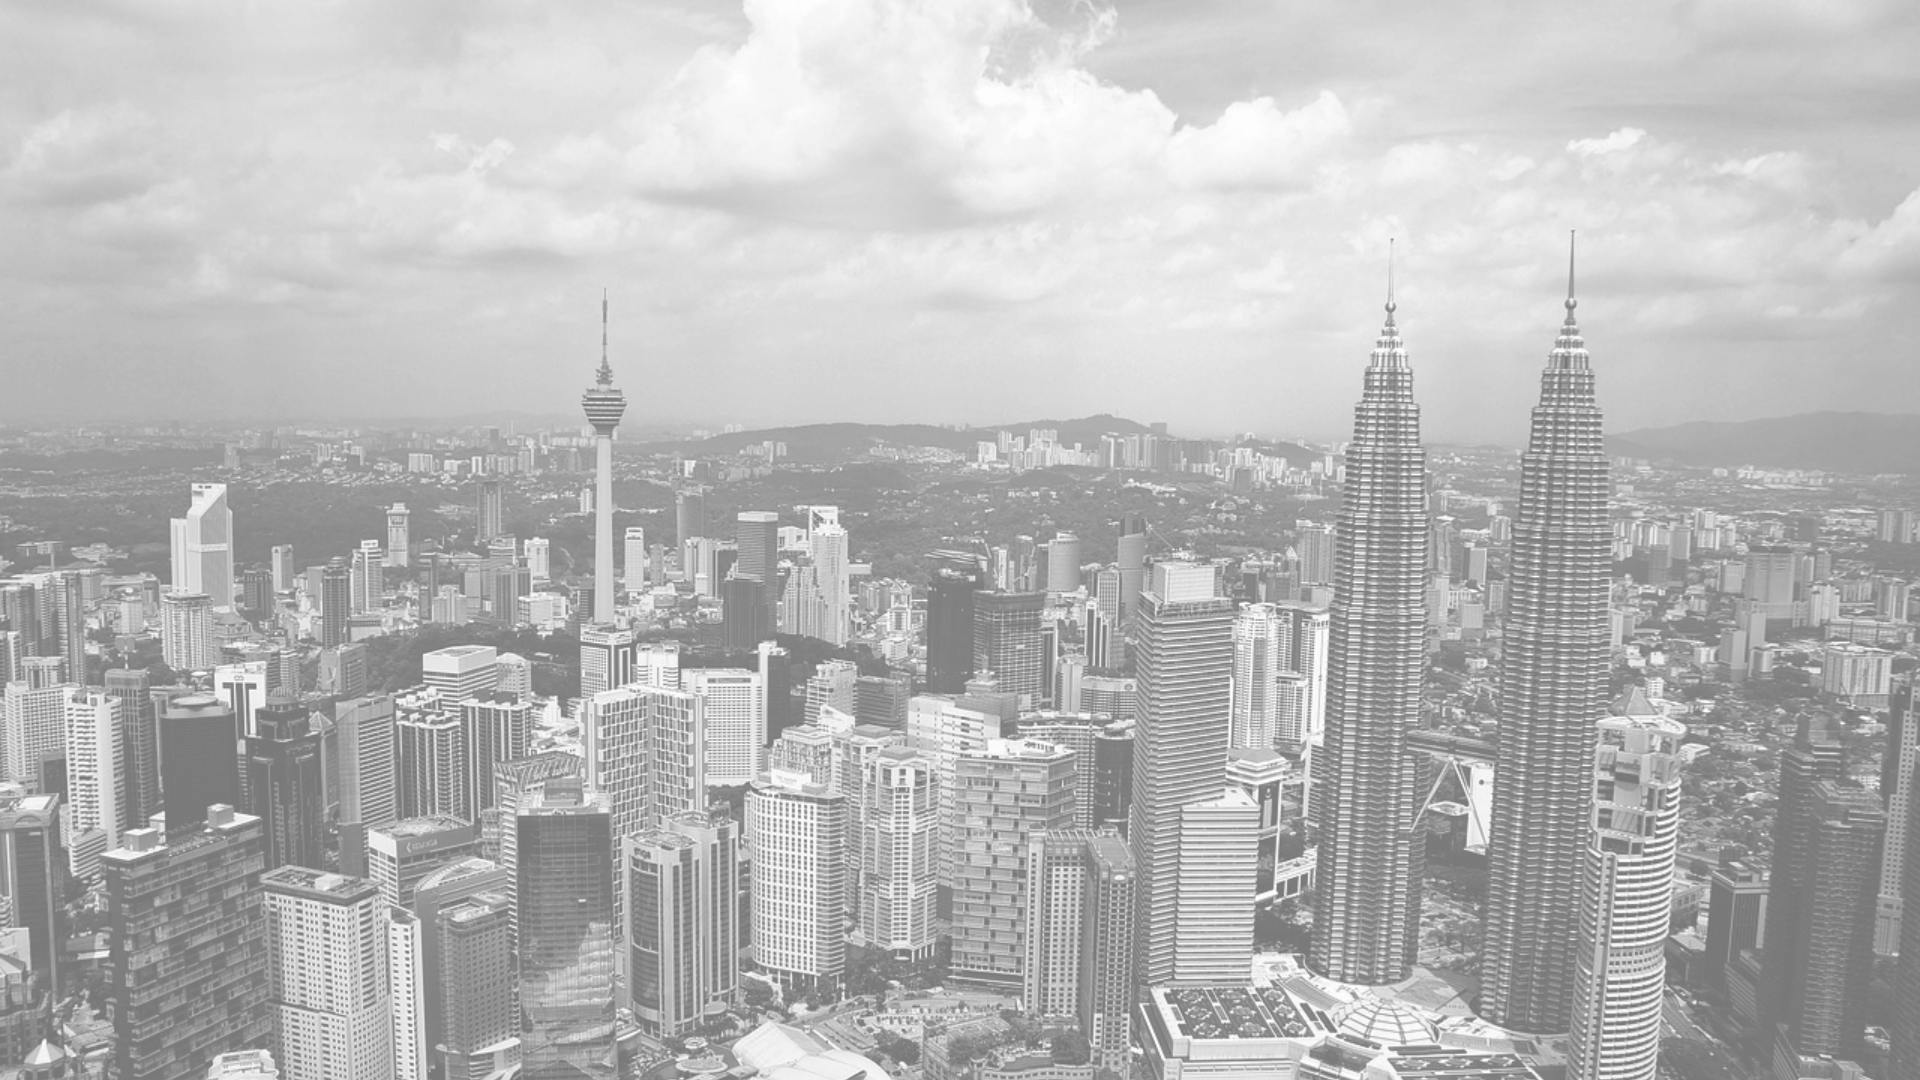
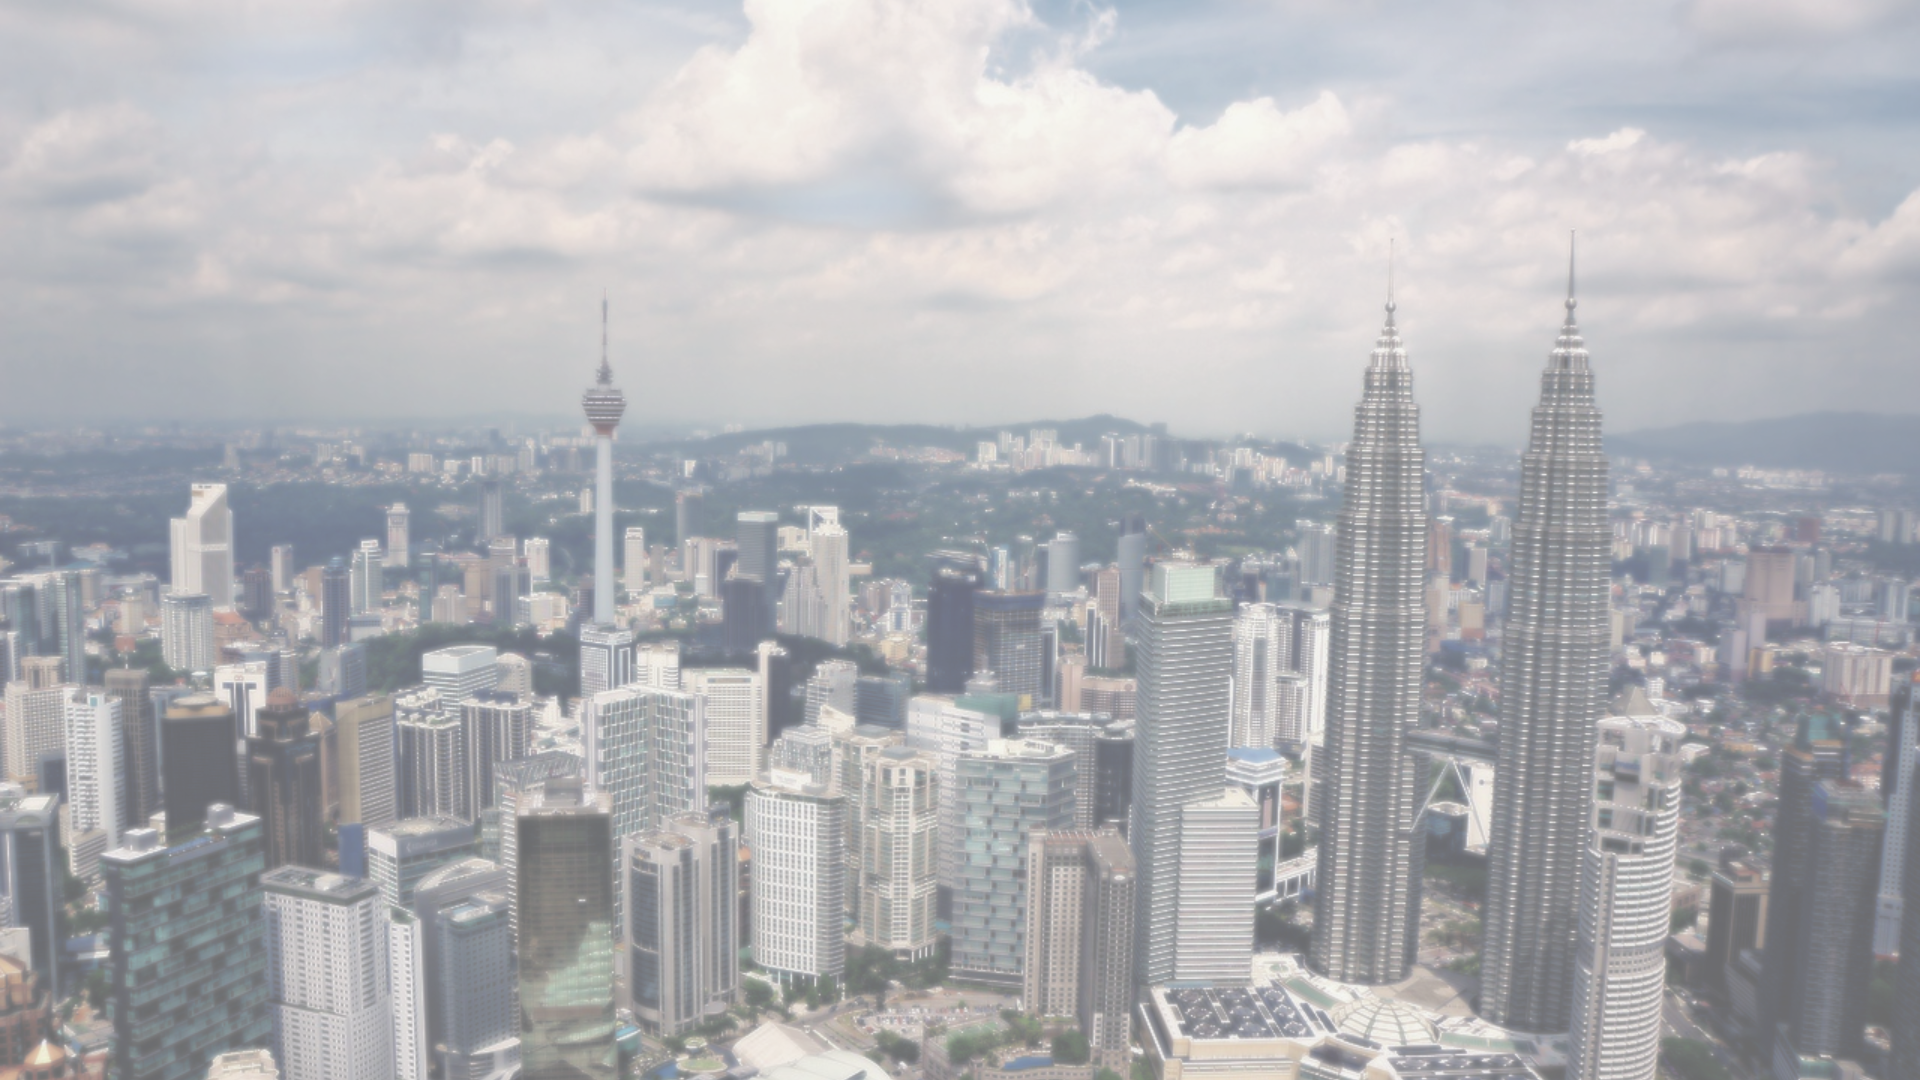
styling changes

diff --git a/style.css b/style.css
@@ -145,7 +145,7 @@ body {
   position: absolute;
   top: 130%;
   left: 0;
-  background: rgba(255,255,255,0.25);
+  background: rgba(255, 255, 255, 0.915);
   backdrop-filter: blur(20px) saturate(180%);
   border: 1px solid var(--glass-border);
   border-radius: 14px;
@@ -320,7 +320,10 @@ body {
   justify-content: space-between;
   align-items: flex-start;
   padding-bottom: 20px;
-  background-color: #c32030;
+  /* background-color: #c32030; */
+  background: 
+    linear-gradient(rgba(146, 0, 0, 0.889), rgba(179, 0, 0, 0.905)),
+    url('profile-background.jpg') center/cover no-repeat;
   padding-left: 30px;
   padding-top: 20px;
   padding-right: 40px;
@@ -711,7 +714,7 @@ body {
   align-items: center;
   justify-content: flex-start;
   color: white;
-  background-image: url('https://raw.githubusercontent.com/winterx04/skr-background-assets/main/background.png');
+  background-image: url('skrine\ wallpaper.png');
   background-size: cover;
   background-position: center;
   background-repeat: no-repeat;
@@ -933,7 +936,7 @@ body {
 /* People */
 .header {
   background: 
-    linear-gradient(rgba(66, 66, 66, 0.8), rgba(66, 66, 66, 0.6)),
+    linear-gradient(rgba(44, 44, 44, 0.8), rgba(54, 54, 54, 0.6)),
     url('https://magnusdigital.my/skrine/wp-content/uploads/2025/08/bg-people.webp') center/cover no-repeat;
   color: white;
   padding: 60px 20px;
@@ -959,8 +962,11 @@ body {
   position: sticky;
   top: 60px;
   max-width: 350px;
-  background: #c9c9c9;
+  /* background: #c9c9c9; */
   /* background: rgba(255, 255, 255, 0.275); */
+  background: 
+    linear-gradient(rgba(44, 44, 44, 0.097), rgba(54, 54, 54, 0.064)),
+    url('profile-background.jpg') center/cover no-repeat;
   backdrop-filter: blur(12px);
   -webkit-backdrop-filter: blur(12px);
   border: 1px solid rgba(255, 255, 255, 0.2);
